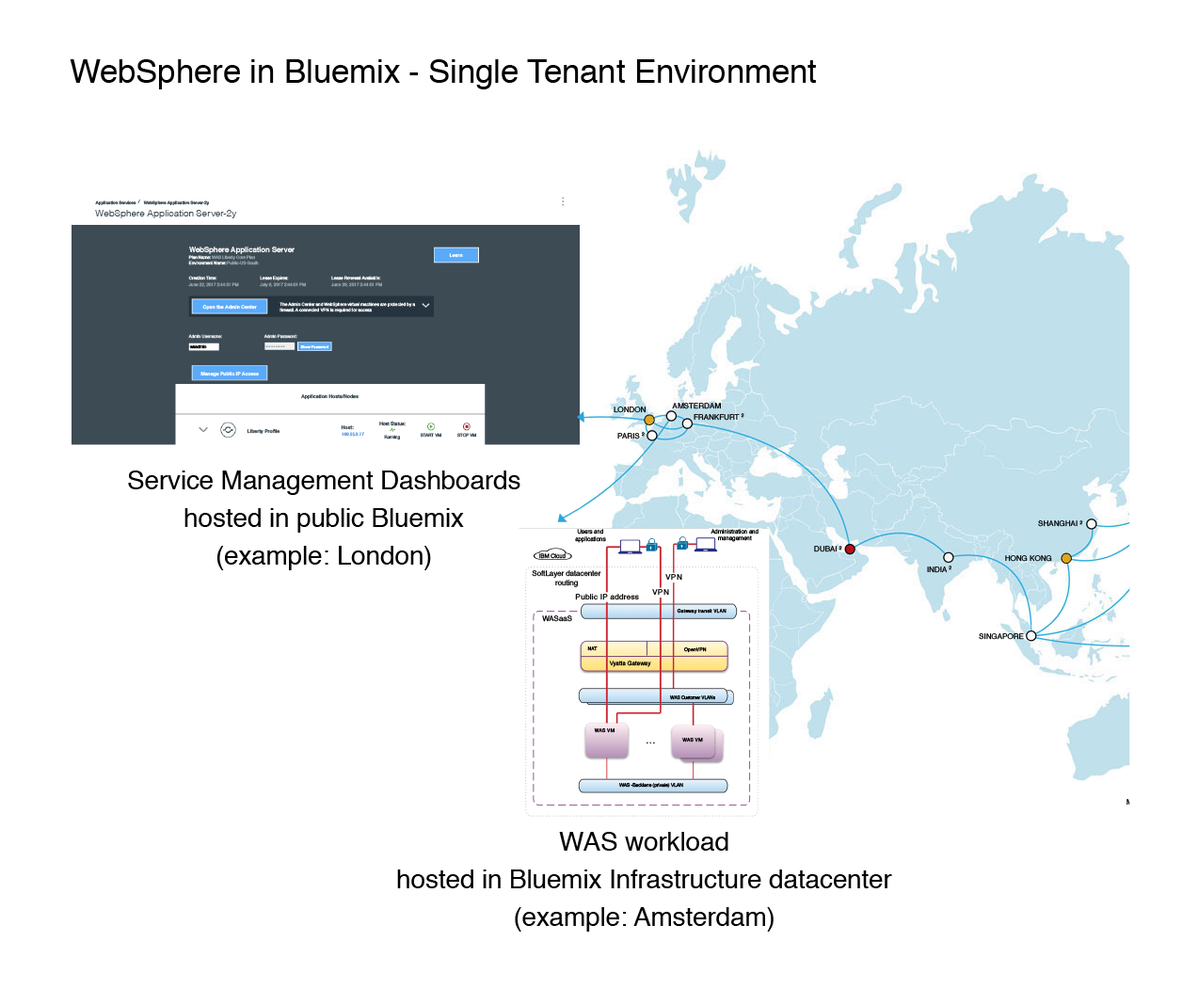
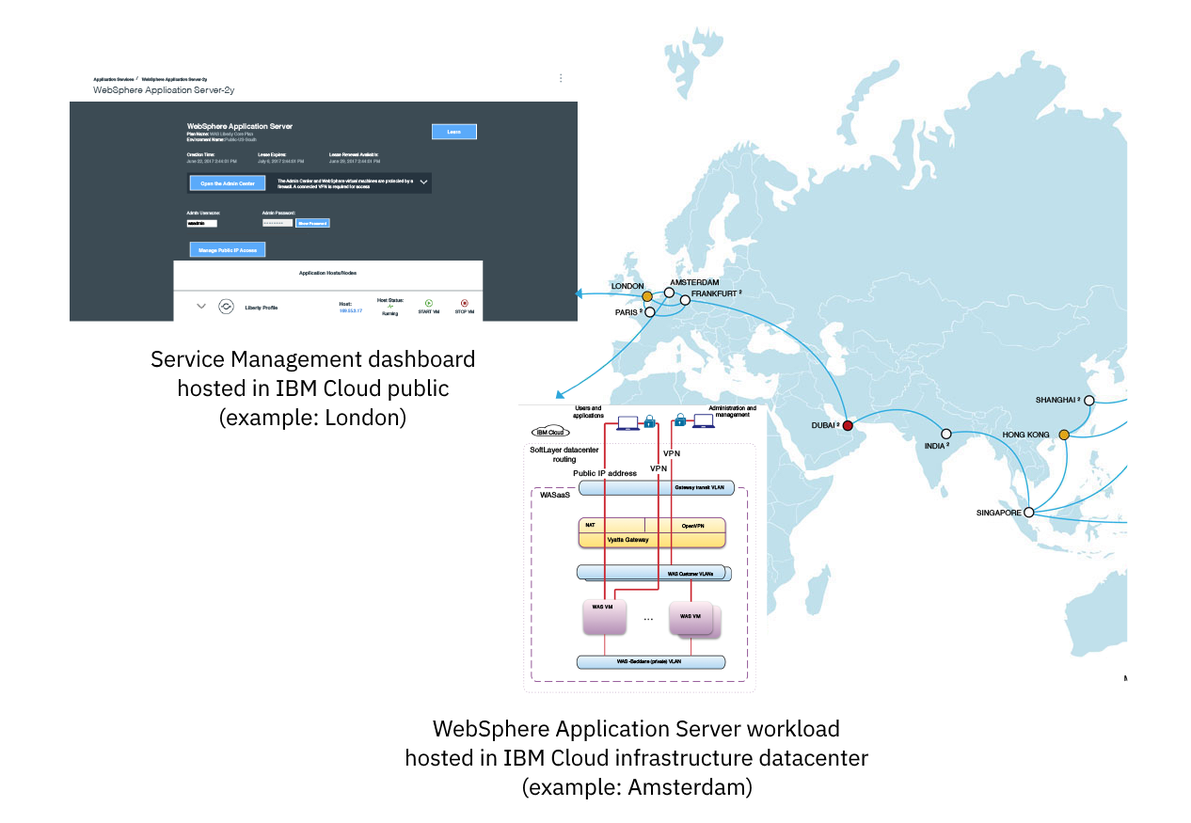
Updates for content quality

Changed region(s): [[0.0308, 0.0309, 0.955, 0.9874], [0.8934, 0.6789, 0.955, 0.8023], [0.7393, 0.0617, 0.7701, 0.0926]]

diff --git a/systemAccess.md b/systemAccess.md
@@ -2,27 +2,27 @@
 
 copyright:
   years: 2017, 2018
-lastupdated: "2018-11-14"
+lastupdated: "2018-11-20"
 
 ---
 
 {:shortdesc: .shortdesc}
 {:new_window: target="_blank"}
 {:codeblock: .codeblock}
+{:tip: .tip}
 
 # System access
 {: #system_access}
 
-Methods of creating and managing a service instance are discussed in this section, along with various ways to access and set up access to your systems.
+Learn methods of creating and managing a service instance, and explore ways to access and set up access to your systems.
 {: shortdesc}
-
 
 ## REST API usage in WebSphere Application Server in {{site.data.keyword.Bluemix_notm}}
 {: #restapi_usage}
 
 Instances in WebSphere Application Server in {{site.data.keyword.Bluemix_notm}} are created, provisioned, managed, and deleted in one of the following ways:
 
-* From the {{site.data.keyword.Bluemix_notm}} Catalog and Service Dashboard in the {{site.data.keyword.Bluemix_notm}} UI.
+* From the {{site.data.keyword.Bluemix_notm}} catalog and service dashboard.
 * From the creation of an application or script that uses RESTful APIs.
 
 Through use of Swagger 2.0 compliant REST APIs, clients have access to the same function as provided through the portal and dashboard. For more information about supported REST APIs and resources, see the WebSphere Application Server in {{site.data.keyword.Bluemix_notm}} [REST API Documentation](https://wasaas-broker.ng.bluemix.net/wasaas-broker/api#/){: new_window}. For sample code that demonstrates usage of the REST APIs, download the Git hosted WebSphere Application Server in {{site.data.keyword.Bluemix_notm}} [REST API Samples](https://github.com/IBM-Cloud/WebSphere-in-Bluemix/tree/master/WebSphere-In-Bluemix-API-Examples){: new_window}.
@@ -35,15 +35,15 @@ Through use of Swagger 2.0 compliant REST APIs, clients have access to the same 
 
 | **Region name** | **Region prefix** | **API Endpoint URL** |       
 |:-------------:|:--------------:|:-------------:|
-| Dallas | ng | https://wasaas-broker.ng.bluemix.net/wasaas-broker/api  |
-| London | eu-gb | https://wasaas-broker.eu-gb.bluemix.net/wasaas-broker/api  |
-| Frankfurt | eu-de | https://wasaas-broker.eu-de.bluemix.net/wasaas-broker/api  |
-| Sydney | au-syd | https://wasaas-broker.au-syd.bluemix.net/wasaas-broker/api  |
+| Dallas | `ng` | https://wasaas-broker.ng.bluemix.net/wasaas-broker/api  |
+| London | `eu-gb` | https://wasaas-broker.eu-gb.bluemix.net/wasaas-broker/api  |
+| Frankfurt | `eu-de` | https://wasaas-broker.eu-de.bluemix.net/wasaas-broker/api  |
+| Sydney | `au-syd` | https://wasaas-broker.au-syd.bluemix.net/wasaas-broker/api  |
 
 ## Service dashboard
 {: #service_dashboard}
 
-After you create your service instance, you will be taken to the service dashboard. You can always get back to the service dashboard by clicking the service icon from your organization dashboard.
+After you create your service instance, you are taken to the service dashboard. You can always get back to the service dashboard by clicking the service icon from your organization dashboard.
 From the service dashboard you can access:
 
 * A link to this documentation
@@ -52,7 +52,7 @@ From the service dashboard you can access:
 * The host name
 * The admin user and admin password
 * A private SSH key
-* The WebSphere® admin user and admin password
+* The WebSphere&reg; admin user and admin password
 * The Admin Center and Admin Console URLs
 
 
@@ -66,7 +66,7 @@ OpenVPN is required for access to any WebSphere Application Server in {{site.dat
 1. Download the openVPN Windows installer for your system architecture from the openVPN website:
   * 64-bit systems: [openvpn-install-2.3.4-I001-x86_64.exe](https://swupdate.openvpn.org/community/releases/openvpn-install-2.3.4-I001-x86_64.exe){: new_window}
   * 32-bit systems:  [openvpn-install-2.3.4-I001-i686.exe](https://swupdate.openvpn.org/community/releases/openvpn-install-2.3.4-I001-i686.exe){: new_window}
-2. Ensure you [Run as a Windows Administrator](https://technet.microsoft.com/en-us/magazine/ff431742.aspx){: new_window} and openVPN is installed.
+2. Ensure you [run as a Windows Administrator](https://technet.microsoft.com/en-us/magazine/ff431742.aspx){: new_window} and openVPN is installed.
 3. Download the VPN configuration files from the OpenVPN download link of the WebSphere Application Server in {{site.data.keyword.Bluemix_notm}} instance in the service dashboard. Extract all four files in the compressed file to the `{OpenVPN home}\config` directory. For example:
 
   ```  
@@ -90,7 +90,7 @@ OpenVPN is required for access to any WebSphere Application Server in {{site.dat
 ### Use the following instructions to configure openVPN in Mac:
 1. One method is to install [Tunnelblick](https://tunnelblick.net/){: new_window}, an open source software product.
 2. Extract the VPN configuration files from the WebSphere service. Tunnelblick prompts for your admin password for Mac and adds the config to the set of VPNs you can use to connect.
-3. Connect to the VPN network and then you can access your virtual machine. After your first access, Tunnelblick caches the configuration and you can connect from Tunnelblick. You can put an icon on the top menu bar for easy access.
+3. Connect to the VPN network and then you can access your virtual machine. After your first access, Tunnelblick caches the configuration and you can connect from Tunnelblick. You can put an icon on the menu bar for easy access.
 
 
 ## Using SSH to access WebSphere Application Server in {{site.data.keyword.Bluemix_notm}} VMs
@@ -137,27 +137,27 @@ Use the following instructions to set up SSH access to your WebSphere Applicatio
   {: codeblock}
 
 7. Whether you access the system with the private ssh key or the root password, immediately change the root password.
-8. To simplify your SSH commands, create a file that is named "config" in the %HOME%/.ssh directory. For example:
+8. To simplify your SSH commands, create a file that is named `config` in the `%HOME%/.ssh` directory. For example:
 
-  <pre>
+   ```
    Host VM1
       Hostname 169.53.246.xxx
       User virtuser
       IdentityFile /path/privateKeyFileName
-  </pre>
-  {: codeblock}
+   ```
+   {: codeblock}
 
-9. Run "ssh VM1" to be connected as **virtuser**.
+9. Run the `ssh VM1` command to connect as **virtuser**.
 
 ## System paths
 {: #system_paths}
 
-* The Liberty Profile commands can be issued from */opt/IBM/WebSphere/Liberty/bin*.
-* The Liberty Profile server profile location is */opt/IBM/WebSphere/Profiles/Liberty/servers/server1*.
-* The Traditional WebSphere Application Server core product files, which are shared by all profiles, are located in */opt/IBM/WebSphere/AppServer/*.
-* The Traditional WebSphere Application Server commands can be issued from the default profile location in */opt/IBM/WebSphere/Profiles/Default**profile_typeprofile_number**/bin* where:
-  * **profile_type** is a value of *AppSrv*, *Dmgr*, *Custom*, *AdminAgent*, *JobMgr*, or *SecureProxySrv*.
-  * **profile_number** is a sequential number that is used to create a unique profile name
+* The Liberty commands can be issued from `/opt/IBM/WebSphere/Liberty/bin`.
+* The Liberty server profile location is `/opt/IBM/WebSphere/Profiles/Liberty/servers/server1`.
+* The Traditional WebSphere Application Server core product files, which are shared by all profiles, are located in `/opt/IBM/WebSphere/AppServer/`.
+* The Traditional WebSphere Application Server commands can be issued from the default profile location in `/opt/IBM/WebSphere/Profiles/Default<profile_type><profile_number>/bin` where:
+  * `<profile_type> is a value of `AppSrv`, `Dmgr`, `Custom`, `AdminAgent`, `JobMgr`, or `SecureProxySrv`.
+  * `<profile_number>` is a sequential number that is used to create a unique profile name.
 
 
 ## Managing servers from the command line
@@ -172,7 +172,7 @@ When you click the link to the Admin Center or the Admin Console, you might rece
 
 Since you are using links that are provided by {{site.data.keyword.IBM}}, you can safely ignore the warning and connect. If your browser offers to store a security exception, doing so is the easiest way to prevent the warning in the future.
 
-Another option is to export the incoming signer certificate and then import it into your browser as a trusted root certificate. This option would require you to make an entry in your *hosts* file that maps the VM's IP address to the certificate issuer's common name. This name is in the following format: wl<pureapplication.ibmcloud.com. If you now use the host name instead of the IP address in the URL, you can connect cleanly. You then must access the Admin Center or Admin Console by using that host name instead of the IP address in the URL.
+Another option is to export the incoming signer certificate and then import it into your browser as a trusted root certificate. This option would require you to make an entry in your *hosts* file that maps the VM's IP address to the certificate issuer's common name. This name is in the following format: `wl<pureapplication.ibmcloud.com`. If you now use the host name instead of the IP address in the URL, you can connect cleanly. You then must access the Admin Center or Admin Console by using that host name instead of the IP address in the URL.
 
 Lastly, customers often install their own root certificates for applications they make external. For more information, refer to the [WebSphere Application Server](https://www.ibm.com/support/knowledgecenter/SSAW57_9.0.0/com.ibm.websphere.nd.multiplatform.doc/ae/tsec_securecomm.html){: new_window} or [Liberty Core](https://www.ibm.com/support/knowledgecenter/SSD28V_9.0.0/com.ibm.websphere.wlp.core.doc/ae/twlp_sec_comm.html){: new_window} documentation in IBM Knowledge Center.
 
@@ -222,39 +222,39 @@ If you require the web server to handle all user requests, then you might need t
 
 * During application installation, ensure that the modules of your application are mapped to the server you just started and to the web server (for example, ***webserver1***).
 
-The following high-level steps assume that the prerequisite tasks are complete:
+The following high-level steps assume that the prerequisite tasks are complete.
 
-1. From the Admin Console, generate the plug-in from the Environment option:
+1. From the Admin Console, generate the plug-in from the Environment option.
    1. Choose Environment > Update global web server plug-in configuration
    2. Click **OK** or **Overwrite to generate a new plug-in configuration file**
-2. From the Deployment Manager, copy the plug-in to the web server configuration:
+2. From the Deployment Manager, copy the plug-in to the web server configuration.
 
   ```
    cp /opt/IBM/WebSphere/Profiles/DefaultDmgr01/config/cells/plugin-cfg.xml /opt/IBM/WebSphere/Plugins/config/webserver1/plugin-cfg.xml
   ```
   {: codeblock}
-3. Edit **httpd.conf** in **IHS_HOME/conf** (for example, */opt/IBM/WebSphere/HTTPServer/conf*) and ensure that the following two lines exist:
+3. Open the `httpd.conf` file in the `IHS_HOME/conf` (for example, `/opt/IBM/WebSphere/HTTPServer/conf`), and ensure that the following two lines exist.
 
     ```
     LoadModule was_ap22_module /opt/IBM/WebSphere/Plugins/bin/64bits/mod_was_ap22_http.so
     WebSpherePluginConfig /opt/IBM/WebSphere/Plugins/config/webserver1/plugin-cfg.xml
     ```
     {: codeblock}  
-4. Open the ports with these two commands:
+4. Open the ports by running the following commands.
 
-  ```
+   ```
    export serverPorts=2810:TCP,2810:UDP,8880:TCP,8880:UDP,9101:TCP,9101:UDP,9061:TCP,9061:UDP,9080:TCP,9080:UDP,9354:TCP,9354:UDP,9044:TCP,9044:UDP,9443:TCP,9443:UDP,5060:TCP,5060:UDP,5061:TCP,5061:UDP,11005:TCP,11005:UDP,11007:TCP,11007:UDP,9633:TCP,9633:UDP,7276:TCP,7276:UDP,7286:TCP,7286:UDP,5558:TCP,5558:UDP,5578:TCP,5578:UDP
 
    sudo /opt/IBM/WebSphere/AppServer/virtual/bin/openFirewallPorts.sh -ports $serverPorts -persist true
-  ```
-    {: codeblock}
-5. Stop and start the web server with the following two commands:
+   ```
+   {: codeblock}
+5. Stop and start the web server by running the following commands:
     ```
     sudo /opt/IBM/WebSphere/HTTPServer/bin/apachectl -k stop
     sudo /opt/IBM/WebSphere/HTTPServer/bin/apachectl -k start
     ```
     {: codeblock}
-8. Access your application through the plug-in:
+8. Access your application through the plug-in.
   ```
    http://169.53.246.xxx/contextRoot/
   ```
@@ -262,34 +262,37 @@ The following high-level steps assume that the prerequisite tasks are complete:
 
 **Note:** The steps that are provided represent one path of many when you're attempting to configure a web server. If further assistance is needed, see [IBM Knowledge Center](https://www.ibm.com/support/knowledgecenter/search/configure%20web%20server?scope=SSAW57_9.0.0){: new_window}.
 
-**NOTE:** If you cannot access your application, you are likely facing a port access issue on your firewall. Therefore, you might need to restart any of the following servers: the application server, the node agent, the web server, and the deployment manager. Additionally, it is possible that you might need to access the WebSphere Application Server in {{site.data.keyword.Bluemix_notm}} Service Dashboard and restart each virtual machine.
+If you cannot access your application, you are likely facing a port access issue on your firewall. Therefore, you might need to restart any of the following servers: the application server, the node agent, the web server, and the deployment manager. Additionally, it is possible that you might need to access the WebSphere Application Server in {{site.data.keyword.Bluemix_notm}} Service Dashboard and restart each virtual machine.
+{: tip}
 
-## SSL Configuration
+## SSL configuration
 {: #ssl_configuration}
 
-WebSphere Application Server traditional and Liberty are configured with the [SSL_TLSv2](https://www.ibm.com/support/knowledgecenter/en/SSYKE2_8.0.0/com.ibm.java.security.component.80.doc/security-component/jsse2Docs/protocols.html){: new_window} protocol.  To change the protocol, modify the following files:
+WebSphere Application Server traditional and Liberty are configured with the [SSL_TLSv2](https://www.ibm.com/support/knowledgecenter/en/SSYKE2_8.0.0/com.ibm.java.security.component.80.doc/security-component/jsse2Docs/protocols.html){: new_window} protocol. You can change the protocol by modifying the SSL configuration.
 
-For WebSphere Application Server traditional:
+### WebSphere Application Server traditional
+{: #ssl-was}
 
-1. Edit **security.xml** in /opt/IBM/WebSphere/Profiles/*profile_name*/config/cell/*cell_name* and modify the following line:
+1. Open the `security.xml` file in the `/opt/IBM/WebSphere/Profiles/<profile_name>/config/cell/<cell_name>` directory, and modify the following line:
 
-  ```
-  sslProtocol="SSL_TLSv2"
-  ```
-{: codeblock}
+   ```
+   sslProtocol="SSL_TLSv2"
+   ```
+   {: codeblock}
 
-2. Edit **ssl.client.props** in /opt/IBM/WebSphere/Profiles/*profile_name*/properties and modify the following line:
+2. Open the `ssl.client.props` file in the `/opt/IBM/WebSphere/Profiles/<profile_name>/properties` directory, and modify the following line:
 
-  ```
-  com.ibm.ssl.protocol=SSL_TLSv2
-  ```
-{: codeblock}
+   ```
+   com.ibm.ssl.protocol=SSL_TLSv2
+   ```
+   {: codeblock}
 
-For Liberty:
+### Liberty
+{: #ssl-liberty}
 
-1. Edit **server.xml** in /opt/IBM/WebSphere/Profiles/Liberty/servers/server1 and modify the following line located in the defaultSSLConfig ssl configuration element:
+1. Open the `server.xml` file in the `/opt/IBM/WebSphere/Profiles/Liberty/servers/server1` directory, and modify the following line within the `defaultSSLConfig` SSL configuration element:
 
-  ```
-  sslProtocol="SSL_TLSv2"
-  ```
-{: codeblock}
+   ```
+   sslProtocol="SSL_TLSv2"
+   ```
+   {: codeblock}

diff --git a/networkEnvironment.md b/networkEnvironment.md
@@ -24,7 +24,7 @@ Figure 1. Client view of Multi-tenant networking with Public IP
 ## VPN access
 {: #vpnAccess}
 
-After you provision a WebSphere Application Server in {{site.data.keyword.Bluemix_notm}} service instance from the Service Dashboard in the {{site.data.keyword.Bluemix_notm}} UI, you can establish an OpenVPN connection. To create the connection, expand the drop-down menu and click **Download VPN Configuration** to download your VPN configuration. The VPN configuration contains an `.ovpn` file and certificates that are used to authenticate with the OpenVPN server. Once the OpenVPN connection is established, you can then access your VM through SSH. You can also access your Liberty Admin Center, traditional WebSphere Admin Console, and applications.
+After you provision a WebSphere Application Server in {{site.data.keyword.Bluemix_notm}} service instance from the service dashboard in the {{site.data.keyword.Bluemix_notm}} UI, you can establish an OpenVPN connection. To create the connection, expand the drop-down menu and click **Download VPN Configuration** to download your VPN configuration. The VPN configuration contains an `.ovpn` file and certificates that are used to authenticate with the OpenVPN server. Once the OpenVPN connection is established, you can then access your VM through SSH. You can also access your Liberty Admin Center, traditional WebSphere Admin Console, and applications.
 
 The VPN configuration is scoped to your organization and region. It is valid for one year from the time created. Multiple OpenVPN client connections can be established simultaneously by using the same VPN configuration.
 
@@ -39,43 +39,45 @@ In most cases, you need only a single VPN configuration that you can download by
 
 If your VPN configurations are compromised or expired, you can revoke VPN configuration by using the advanced VPN management page. Additionally, from an audit perspective, you can view a history of all VPN management activity and download active VPN configurations that were created previously from the advanced VPN management page.
 
-All the features available from the Service Dashboard in the {{site.data.keyword.Bluemix_notm}} UI can also be scripted by using our REST APIs. For more information, see the WebSphere Application Server in {{site.data.keyword.Bluemix_notm}} [REST API Documentation](https://wasaas-broker.ng.bluemix.net/wasaas-broker/api#/){: new_window}.
+All the features available from the service dashboard in the {{site.data.keyword.Bluemix_notm}} UI can also be scripted by using our REST APIs. For more information, see the WebSphere Application Server in {{site.data.keyword.Bluemix_notm}} [REST API Documentation](https://wasaas-broker.ng.bluemix.net/wasaas-broker/api#/){: new_window}.
 
 
 ## Public internet access
 {: #publicInternetAccess}
 
-Optionally, you can manage public internet access from the Service Dashboard in the {{site.data.keyword.Bluemix_notm}} UI. You can **request** a public IP address from the pool and **open** the connection from the internet to your WebSphere Application Server in {{site.data.keyword.Bluemix_notm}} service instance. Conversely, you can **close** access from your service instance to the internet and **return** the public IP address to the pool.
+Optionally, you can manage public internet access from the service dashboard in the {{site.data.keyword.Bluemix_notm}} UI. You can **request** a public IP address from the pool and **open** the connection from the internet to your WebSphere Application Server in {{site.data.keyword.Bluemix_notm}} service instance. Conversely, you can **close** access from your service instance to the internet and **return** the public IP address to the pool.
 
-To **request** a public IP address and **open** a connection, follow these instructions:
+### Request a public IP address and open a connection
+{: #request-open-ip}
 
-1. Click **Manage Public IP Access** on the Service Dashboard in the {{site.data.keyword.Bluemix_notm}} UI.
+1. Click **Manage Public IP Access** on the service dashboard in the {{site.data.keyword.Bluemix_notm}} console.
 2. The IP address for your host is shown, but not your public IP address. Click **Request Public IP Address**.
 
-    **Note:** You are returned to the Service Dashboard with a public IP assigned. However, the following message is displayed:
+    You are returned to the service dashboard with a public IP assigned. However, the following message is displayed:
 
-    > **Access is currently closed. Click Manage Public IP to Open Access.**
-3. Click **Manage Public IP Access** on the Service Dashboard in the {{site.data.keyword.Bluemix_notm}} UI.
+    > _Access is currently closed. Click Manage Public IP to Open Access._
+3. Click **Manage Public IP Access** on the service dashboard.
 4. The IP addresses for your host and your new public IP are shown, but access is closed. Click **Open Access**.
 
-    **Note:** You are returned to the Service Dashboard with the following message displayed:
+    You are returned to the service dashboard with the following message displayed:
 
-    > **Access is currently open. Click Manage Public IP to Close Access.**
+    > _Access is currently open. Click Manage Public IP to Close Access._
 
-To **close** a connection and **return** a public IP address, follow these instructions:
+### Close a connection and return a public IP address
+{: #close-return-ip}
 
-1. Click **Manage Public IP Access** on the Service Dashboard in the {{site.data.keyword.Bluemix_notm}} UI.
+1. Click **Manage Public IP Access** on the service dashboard.
 2. Click **Close Access**.
 
-    **Note:** You are returned to the Service Dashboard with the following message displayed:
+    You are returned to the service dashboard with the following message displayed:
 
-    > **Access is currently closed. Click Manage Public IP to Open Access.**
-3. Click **Manage Public IP Access** on the Service Dashboard in the {{site.data.keyword.Bluemix_notm}} UI.
+    > _Access is currently closed. Click Manage Public IP to Open Access._
+3. Click **Manage Public IP Access** on the service dashboard in the {{site.data.keyword.Bluemix_notm}} UI.
 4. Click **Return Public IP Address**.
 
-    **Note:** You are returned to the Service Dashboard where the IP address of your host is shown with the following message displayed:
+    You are returned to the service dashboard where the IP address of your host is shown with the following message displayed:
 
-    > **Returned Public IP.**
+    > _Returned Public IP._
 
 ## Public IP ports
 {: #publicIPports}
@@ -84,7 +86,7 @@ When you open access to your public IP, the IP address is associated with your V
 * To configure your Liberty Core server, see [Configure Liberty Core Server for public access](networkEnvironment.html#configureLibertyForPublicAccess).
 * To configure your traditional WebSphere Base server, add a web container transport chain that listens on port 80 and 443 as described in [Configuring transport chains](http://www.ibm.com/support/knowledgecenter/SSEQTP_8.5.5//com.ibm.websphere.nd.doc/ae/trun_chain_transport.html){: new_window}.
 
-**Avoid trouble:** Linux reserves ports smaller than 1024 for privileged users, such as **root**. However, it is a common practice to run traditional WebSphere Base servers as a **non-root** user. Therefore, when you add a Web container transport chain, change your **iptables** configuration as the **root** user. Specifically, redirect restricted ports 80 and 443 to another port above 1024, such as 9080 and 9443. The following commands provide an example of this process:
+**Avoid trouble:** Linux reserves ports smaller than 1024 for privileged users, such as **root**. However, it is a common practice to run traditional WebSphere Base servers as a **non-root** user. Therefore, when you add a Web container transport chain, change your **iptables** configuration as the **root** user. Specifically, redirect restricted ports 80 and 443 to another port over 1024, such as 9080 and 9443. The following commands provide an example of this process:
 
 ```
 -bash-4.1# sudo iptables -t nat -A PREROUTING -p tcp --dport 80 -j REDIRECT --to-port 9080
@@ -192,17 +194,17 @@ Now associate your application with the `external_host` virtual host by includin
 ## Configuring DNS
 {: #dnsConfig}
 
-It is important to note that WebSphere Application Server in {{site.data.keyword.Bluemix_notm}} VMs are configured with two DNS resolvers. The resolvers are configured in the **/etc/resolv.conf** file on the VM. The primary DNS server is a non-authoritative server provided by the WebSphere Application Server in {{site.data.keyword.Bluemix_notm}} service. The secondary DNS server is a non-authoritative server provided by {{site.data.keyword.Bluemix_notm}}.
+It is important to note that WebSphere Application Server in {{site.data.keyword.Bluemix_notm}} VMs are configured with two DNS resolvers. The resolvers are configured in the **/etc/resolv.conf** file on the VM. The primary DNS server is a non-authoritative server that is provided by the WebSphere Application Server in {{site.data.keyword.Bluemix_notm}} service. The secondary DNS server is a non-authoritative server that is provided by {{site.data.keyword.Bluemix_notm}}.
 
 We recommend that you review the DNS configuration to see whether it fits your needs. You can update the `/etc/resolv.conf` file to reference the DNS server of your choice if the ones provided by IBM do not meet your requirements.
 
-**Note:** Older WebSphere Application Server in {{site.data.keyword.Bluemix_notm}} VMs might  have only a primary DNS server configured in the `/etc/resolv.conf` file. If you want a HA solution, you can either release the VM and provision a new one or update the `/etc/resolv.conf` file to add a secondary DNS server. This can be your preferred DNS server or the one provided by {{site.data.keyword.Bluemix_notm}} (10.0.80.11).
+**Note:** Older WebSphere Application Server in {{site.data.keyword.Bluemix_notm}} VMs might  have only a primary DNS server configured in the `/etc/resolv.conf` file. If you want a HA solution, you can either release the VM and provision a new one or update the `/etc/resolv.conf` file to add a secondary DNS server. The secondary DNS server can be your preferred DNS server or the one provided by {{site.data.keyword.Bluemix_notm}} (10.0.80.11).
 
 
 ## Opening ports for new servers on custom nodes
 {: #serversOnCustom}
 
-When you create a server on a custom node, the additional ports that are required by the server must be opened on the deployment manager and custom node VMs before you start the server. After you create the server, but before you start the server, open the ports by running the `openWASPorts.sh` script:
+When you create a server on a custom node, the additional ports that are required by the server must be opened on the deployment manager and custom node VMs before you start the server. After you create the server, but before you start the server, open the ports by running the `openWASPorts.sh` script.
 
  1. Log in to each deployment manager and custom VM as the root user.
  1. Run the `/opt/IBM/WebSphere/AppServer/virtual/bin/openWASPorts.sh` script to open the ports.

diff --git a/gettingStartedSTE.md b/gettingStartedSTE.md
@@ -2,7 +2,7 @@
 
 copyright:
   years: 2017, 2018
-lastupdated: "2018-10-25"
+lastupdated: "2018-11-20"
 
 ---
 
@@ -13,34 +13,29 @@ lastupdated: "2018-10-25"
 # Single Tenant Environments
 {: #getting_startedSTE}
 
-The {{site.data.keyword.appserver_full}}:Single Tenant Environment provides customers with an isolated WebSphere workload, a fully integrated hybrid environment, and secure data. This getting started guide is designed to identify key elements that assist clients in accessing and managing their WebSphere Application Server in {{site.data.keyword.Bluemix_notm}}: Single Tenant Environment.
+The {{site.data.keyword.appserver_full}} Single Tenant Environment provides customers with an isolated WebSphere workload, a fully integrated hybrid environment, and secure data. This getting started guide is designed to identify key elements that assist you in accessing and managing your Single Tenant Environment.
 {: shortdesc}
 
 ## Ordering a Single Tenant Environment
 {:#ordering}
 
-Single Tenant Environments cannot be created through the {{site.data.keyword.Bluemix_notm}} catalog and must be ordered by contacting IBM sales. When you order your environment, you can choose from a standard or bring-your-own-license Single Tenant Environment. Standard Single Tenant Environments include all required infrastructure and  WebSphere Application Server licenses. Bring-your-own-license Single Tenant Environments enable you to use separate WebSphere Application Server licenses.
+Single Tenant Environments cannot be created through the {{site.data.keyword.Bluemix_notm}} catalog and must be ordered by contacting IBM sales. When you order your environment, you can choose from a standard or bring-your-own-license Single Tenant Environment. Standard Single Tenant Environments include all required infrastructure and WebSphere Application Server licenses. In bring-your-own-license Single Tenant Environments, you can use separate WebSphere Application Server licenses.
 
-To order a Single Tenant Environment, [contact IBM sales](reportingIssues.html#contacting-sales). The sales team can assist you in setting up an environment tailored to your needs.
+To order a Single Tenant Environment, [contact IBM sales](reportingIssues.html#contacting-sales). The sales team can assist you in setting up an environment that is tailored to your needs.
 
 ## Overview of WebSphere Application Server in {{site.data.keyword.Bluemix_notm}}: Single Tenant Environment
 {: #overviewSTE}
 
-The WebSphere Application Server in {{site.data.keyword.Bluemix_notm}}: Single Tenant offering gives consumers their own private instance of the service, private networking, and isolated resources. Although the offering is managed independently, the service and created service instance dashboards are accessible through a specific {{site.data.keyword.Bluemix_notm}} public region as indicated in the following figure:
+The Single Tenant Environment you your own private instance of the service, private networking, and isolated resources. Although the offering is managed independently, the service and created service instance dashboards are accessible through a specific {{site.data.keyword.Bluemix_notm}} public region as indicated in the following figure.
 
 Figure 1. Architecture of the WebSphere Application Server in {{site.data.keyword.Bluemix_notm}}: Single Tenant Environment
 
-![Figure1. Architecture of Single Tenant Environment](images/WASaaS.png)
+![Figure 1. Architecture of Single Tenant Environment](images/WASaaS.png)
 
 
 ## Organization Management
 {: #organization_management}
 
-The WebSphere Application Server in {{site.data.keyword.Bluemix_notm}}: Single Tenant Environment is configured according to your order. If you provided one or more {{site.data.keyword.Bluemix_notm}} organization names as part of the order, you can start accessing your environment now. If you did not provide one or more organization names or if you want to change this setting, open a [support ticket](reportingIssues.html#reporting_issues) for **Application Services** from the {{site.data.keyword.Bluemix_notm}} console of your region. The Organization name (ORG) can be found on the upper right corner of the {{site.data.keyword.Bluemix_notm}} console as shown in the following figure:
-
-Figure 2. Location of Organization name
-
-![Figure2. Location of ORG name](images/myORG.png)
-
+The WebSphere Application Server in {{site.data.keyword.Bluemix_notm}}: Single Tenant Environment is configured according to your order. If you provided one or more {{site.data.keyword.Bluemix_notm}} organization names as part of the order, you can start accessing your environment now. If you did not provide one or more organization names or if you want to change this setting, open a [support ticket](reportingIssues.html#reporting_issues) for **Application Services** from the {{site.data.keyword.Bluemix_notm}} console of your region. You can find your org name in the {{site.data.keyword.Bluemix_notm}} console by going to **Manage > Account > Cloud Foundry orgs**. 
 
 **Note:** To access your Single Tenant Environment, see [Single Tenant Environment Access](singleTenantAccess.html#singleTenantEnvironment).
